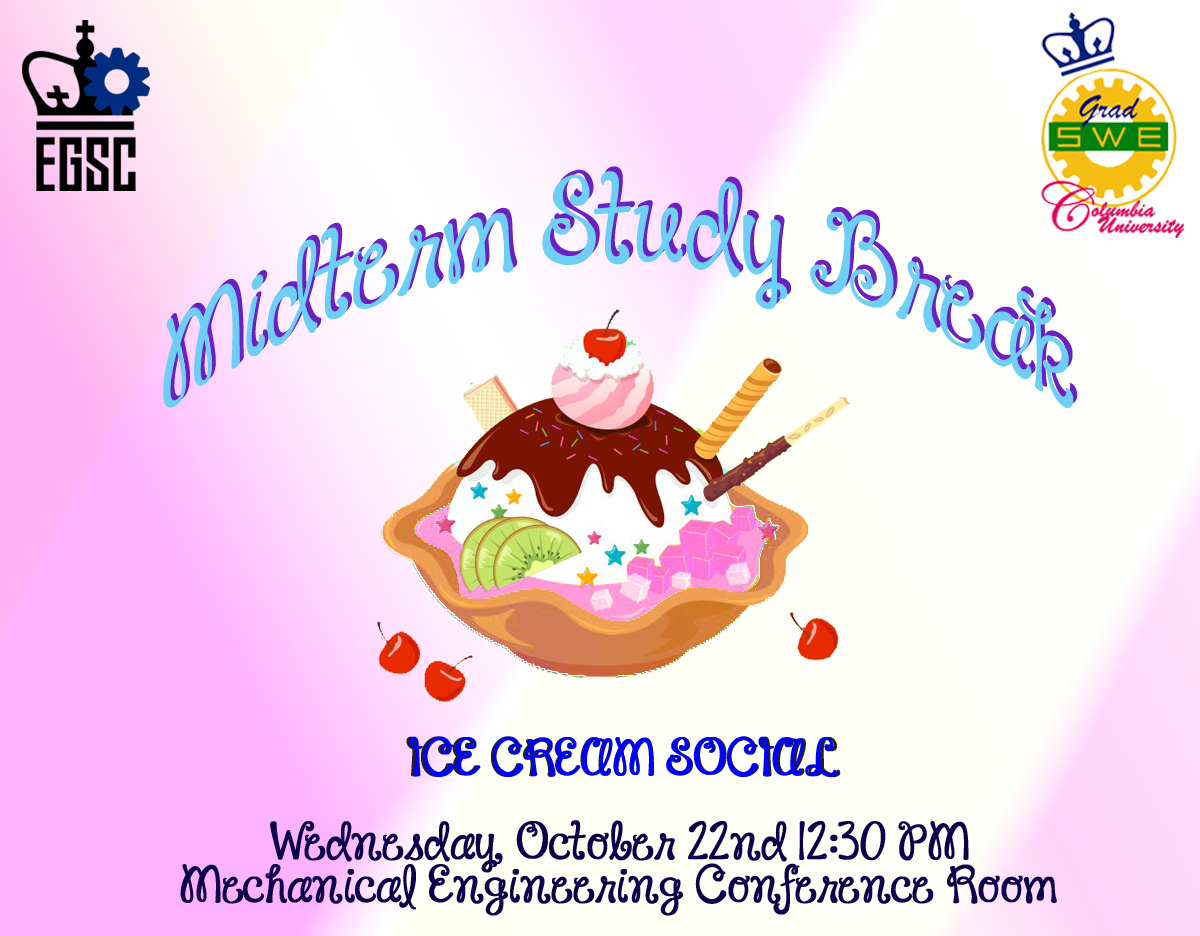
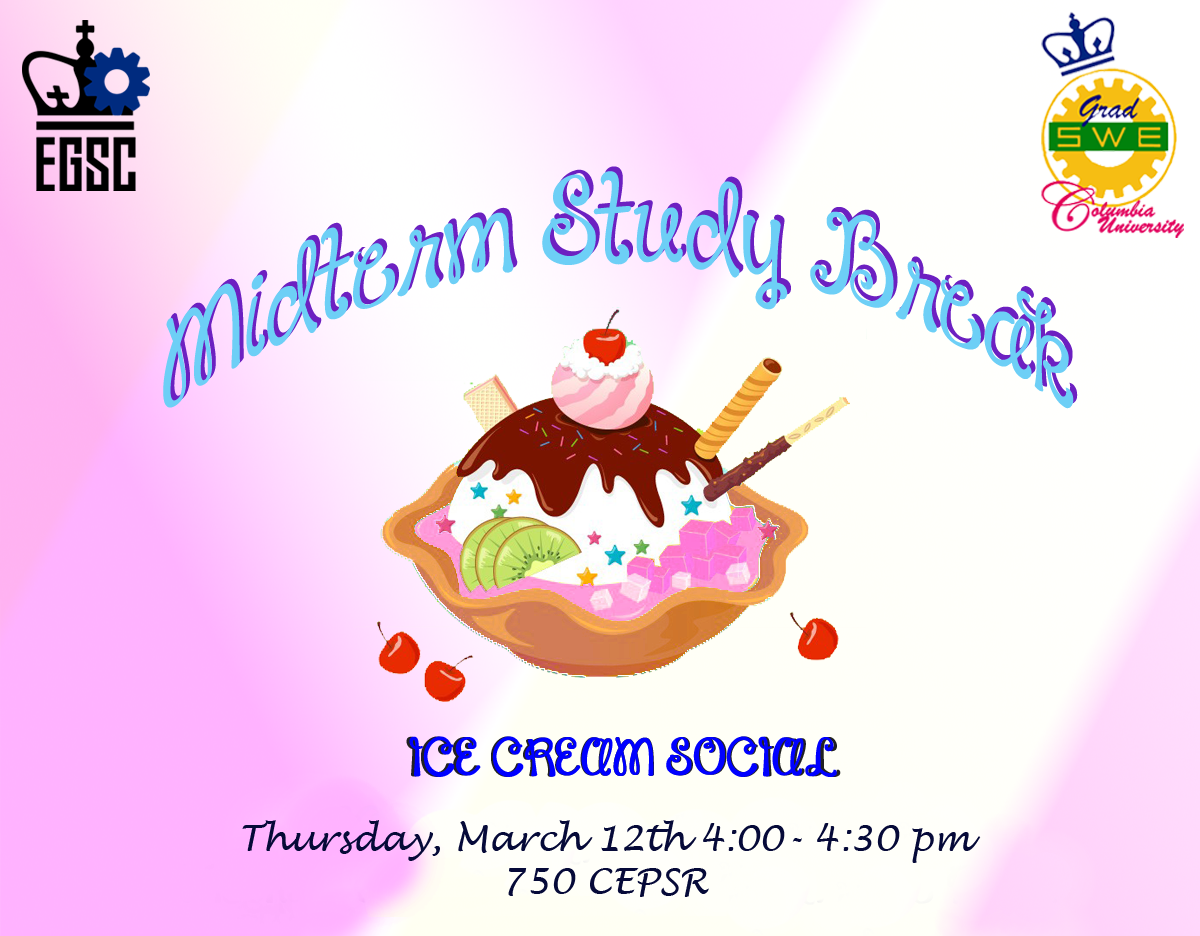
Update to newsletter

Changed region(s): [[0.1542, 0.8675, 0.8942, 1.0]]

diff --git a/currentnewsletter.html b/currentnewsletter.html
@@ -4,6 +4,7 @@
 
 
 
+
   
   <meta content="text/html; charset=ISO-8859-1" http-equiv="content-type"><title>EGSC newsletter</title>
   
@@ -135,8 +136,8 @@ Village Pourhouse to socialize over drinks and food. <br>
 Columbia University ID with EP sticker and Govt. ID for age proof (21+)
 required.<br>
                               <br>
-                              <h3 style="text-align: center;">Diversity
-in Graduate Engineering Community Coffee Hour</h3>
+                              <h3 style="text-align: center;">GradSWE Midterm Study Break - ICE CREAM SOCIAL<br>
+</h3>
                               <img alt="" src="http://columbia-egsc.github.io/images/dge_cch.png" width="600"><br>
 Tuesday, 2/24 from 2-3 PM<br>
 GSAS Lounge<br>
